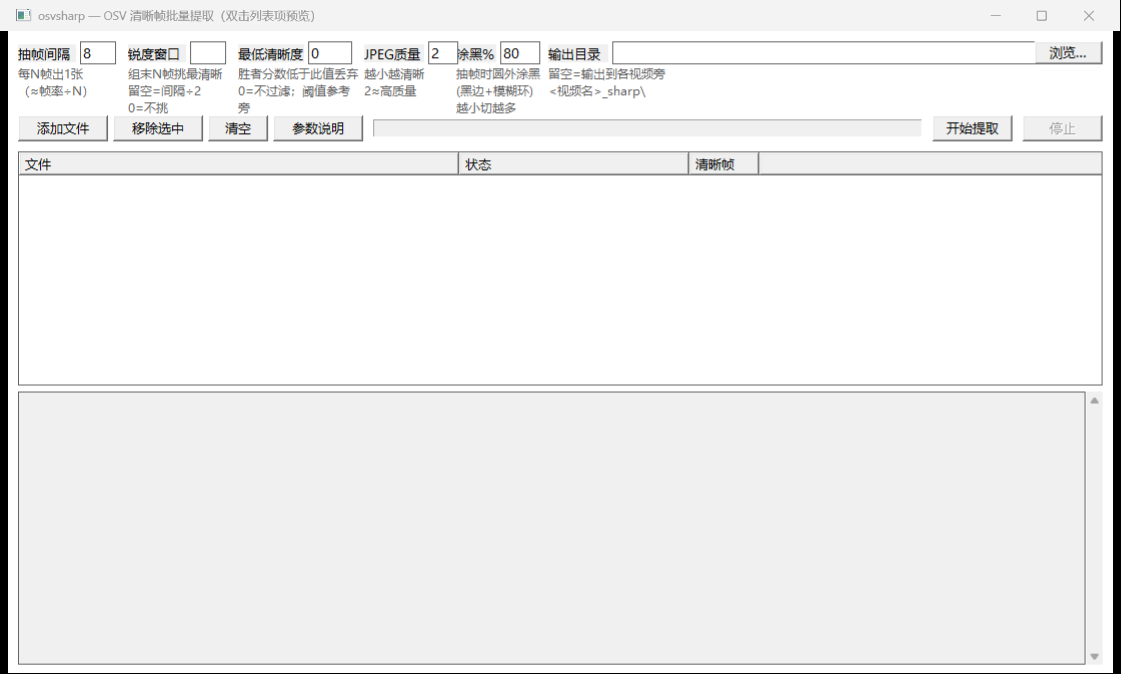
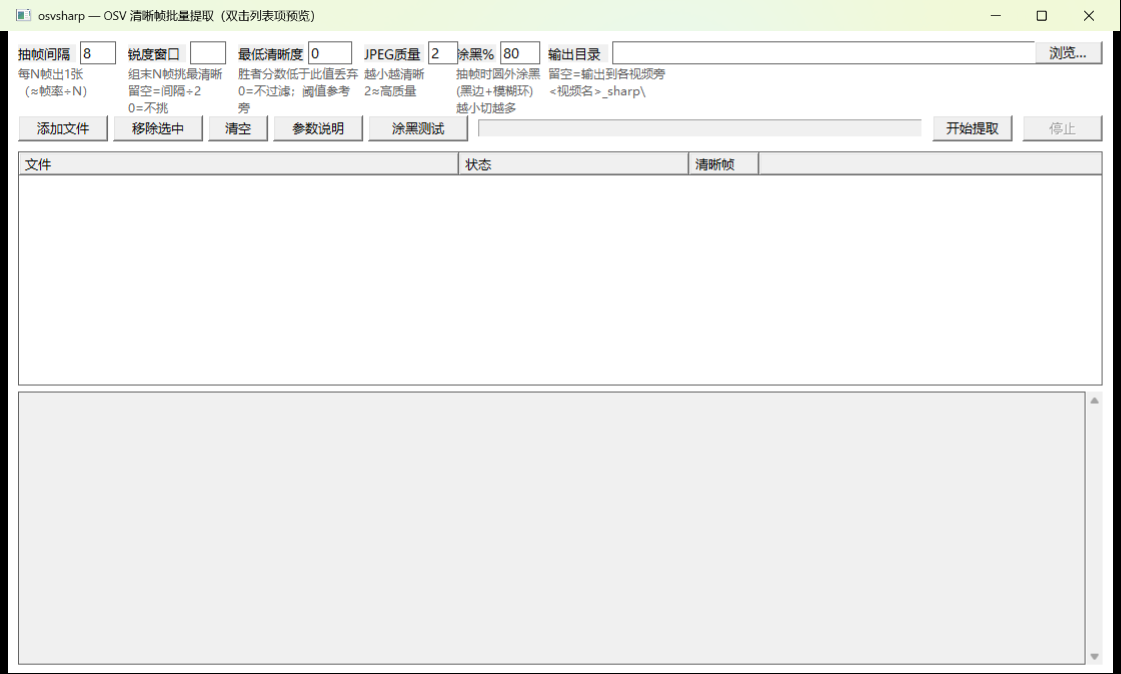
default mask radius 80 -> 95 (picked from the comparison sheet on real footage)

Changed region(s): [[0.7806, 0.0, 0.9991, 0.0623], [0.0312, 0.0, 0.281, 0.0312], [0.3434, 0.1558, 0.4371, 0.2181]]

diff --git a/osvsharp.c b/osvsharp.c
@@ -67,7 +67,7 @@
 #define DEF_SKIP    8      /* 25 fps source → ~3 written frames per second */
 #define DEF_JPEG_Q  2      /* ffmpeg mjpeg -q:v (lower = better)            */
 #define DEF_THUMB   512    /* spirula's thumbnail size                      */
-#define DEF_MASK    80     /* 涂黑保留半径百分数（0=关），抽帧编码时同步执行  */
+#define DEF_MASK    95     /* 涂黑保留半径百分数（0=关），抽帧编码时同步执行  */
 
 /* --------------------------------------------------------- 参数详解（速查）
  *
@@ -83,7 +83,7 @@
  * │ 最低清晰度  │ min  │ 0（不过滤） │ 分数低于此值的胜者不出图        │
  * │ JPEG质量    │ q    │ 2          │ mjpeg -q:v，越小越清晰          │
  * │ 评分缩略图  │thumb │ 512        │ 打分用的灰度图边长，影响分数刻度│
- * │ 涂黑半径%   │ mask │ 80（0=关） │ 抽帧时圆外涂黑，切黑边+模糊环   │
+ * │ 涂黑半径%   │ mask │ 95（0=关） │ 抽帧时圆外涂黑，切黑边+模糊环   │
  * └────────────┴──────┴────────────┴────────────────────────────────┘
  *
  * 【抽帧间隔 skip（-s，默认 8）】
@@ -1673,7 +1673,7 @@ static LRESULT CALLBACK wndproc(HWND wnd, UINT msg, WPARAM wp, LPARAM lp) {
         make_ctl(wnd, L"EDIT", L"", WS_BORDER | ES_AUTOHSCROLL, IDC_E_KEEP);
         make_ctl(wnd, L"EDIT", L"0", WS_BORDER | ES_AUTOHSCROLL, IDC_E_MIN);
         make_ctl(wnd, L"EDIT", L"2", WS_BORDER | ES_AUTOHSCROLL, IDC_E_Q);
-        make_ctl(wnd, L"EDIT", L"80", WS_BORDER | ES_AUTOHSCROLL, IDC_E_MASK);
+        make_ctl(wnd, L"EDIT", L"95", WS_BORDER | ES_AUTOHSCROLL, IDC_E_MASK);
         make_ctl(wnd, L"EDIT", L"", WS_BORDER | ES_AUTOHSCROLL, IDC_E_OUT);
         make_ctl(wnd, L"BUTTON", L"浏览…", 0, IDC_B_BROWSE);
         make_ctl(wnd, L"BUTTON", L"参数说明", 0, IDC_B_HELP);
@@ -1760,16 +1760,16 @@ static LRESULT CALLBACK wndproc(HWND wnd, UINT msg, WPARAM wp, LPARAM lp) {
                 L"与清晰段之间，通常先试 min~avg 之间的值，再按丢弃比例微调。\n"
                 L"注意：数值与评分缩略图尺寸(-b)和场景内容相关，改参数要重标。\n\n"
                 L"【JPEG质量】（默认 2）ffmpeg -q:v，越小越清晰，2 接近视觉无损。\n\n"
-                L"【涂黑%】（默认 80，0 = 不涂黑）\n"
+                L"【涂黑%】（默认 95，0 = 不涂黑）\n"
                 L"抽帧编码时同步把每张图中心圆外的像素涂黑：圆心=画面\n"
                 L"中心，保留半径 = 百分数×短边÷2。用于切掉鱼眼黑边和紧\n"
                 L"贴黑边的失焦模糊环；涂黑区不产生图像梯度，SfM 特征点\n"
                 L"天然落不进去，等价于给建模链喂 mask。\n"
                 L"数字越小切得越多，保留面积 ≈ 百分数的平方\n"
-                L"（80%→64%，88%→77%）。\n"
-                L"参考：DJI Osmo 360 样帧实测清晰边界约 93%，默认 80 已留\n"
-                L"足余量；想少切一点可往 84~88 方向调。涂黑并入编码滤镜，\n"
-                L"几乎不增加耗时，且无二次有损编码。\n\n"
+                L"（95%→90%，88%→77%）。\n"
+                L"参考：DJI Osmo 360 样帧实测清晰边界约 93%，默认 95 是\n"
+                L"用户在对比图上选定的值；拿不准就点「涂黑测试」看对比\n"
+                L"图再定。涂黑并入编码滤镜，几乎不增加耗时，无二次损失。\n\n"
                 L"【输出目录】留空 = 在各视频旁建 <视频名>_sharp\\。\n"
                 L"双目文件（OSV）分 cam0、cam1 子目录；单路视频直接放入。",
                 L"参数说明", MB_OK | MB_ICONINFORMATION);
@@ -1909,7 +1909,7 @@ static void usage(void) {
         "  -b, --thumb <n>      评分缩略图边长，只影响打分与分数刻度（默认 512）\n"
         "      -mask <n>        边缘涂黑：抽帧编码时把每张图中心圆外涂黑，\n"
         "                       保留半径=n%%×短边÷2，越小切得越多\n"
-        "                       （默认 80；0 = 不涂黑）\n"
+        "                       （默认 95；0 = 不涂黑）\n"
         "  -o, --out <dir>      output directory (default: <video>_sharp)\n"
         "      --ffmpeg <path>  ffmpeg executable\n"
         "      --hwaccel <name> force cuda/vulkan/d3d11va/none\n"

diff --git a/README.md b/README.md
@@ -8,7 +8,7 @@
 
 - **输入 OSV 直出**：无需先用 DJI 官方工具拆解，直接拖入 `.OSV` 文件
 - **清晰帧筛选**：对每帧计算 512×512 亮度缩略图的拉普拉斯方差（与 spirula-studio 的 GPU 实现同一算法），滑窗内只保留最锐一帧——运动模糊、抖动、对焦爬升期的帧自动淘汰
-- **边缘涂黑**：抽帧编码时同步把每帧中心圆外的像素涂黑（半径百分数可设，默认 80%），切掉鱼眼黑边与紧贴黑边的失焦模糊环——涂黑并入编码滤镜（单次编码、无二次损失、几乎不耗时），涂黑区不产生图像梯度，SfM 特征点天然落不进去，等价于给三维重建喂 mask
+- **边缘涂黑**：抽帧编码时同步把每帧中心圆外的像素涂黑（半径百分数可设，默认 95%），切掉鱼眼黑边与紧贴黑边的失焦模糊环——涂黑并入编码滤镜（单次编码、无二次损失、几乎不耗时），涂黑区不产生图像梯度，SfM 特征点天然落不进去，等价于给三维重建喂 mask
 - **涂黑测试**：一键提取每路第一帧，生成 85~99% 的涂黑对比大图（双目两路各一张），点哪格就把涂黑% 设为哪档，定值后再批量
 - **双目帧号配对**：两路鱼眼分别导出到 `cam0/`、`cam1/`，文件名即源视频帧号，同号即同一时刻，方便全景拼接 / 三维重建配对
 - **显卡硬解**：自动探测 NVIDIA CUDA → Vulkan → D3D11VA，全部失败退回 CPU 软解（实测 8K 双目硬解比软解快约 5 倍）
@@ -34,7 +34,7 @@
 | 锐度窗口 | 每个输出位置往前多少帧里选最清晰的一帧；留空 = 自动（约间隔一半） | 自动 |
 | 最低清晰度 | 得分低于该值的帧即使窗口内最优也不输出，用于剔除开机抖动段；先跑一遍看 CSV 分布再定 | 0（关闭） |
 | JPEG 质量 | 同 ffmpeg `-q:v`，越小越清晰文件越大 | 2 |
-| 涂黑半径% | 抽帧编码时同步把每帧中心圆外涂黑（单次编码、无二次损失、几乎不耗时）：保留半径 = 百分数 × 短边 ÷ 2，切掉黑边 + 失焦模糊环。百分数越小切得越多（保留面积 ≈ 百分数的平方：80%→64%、88%→77%）。参考：Osmo 360 样帧实测清晰边界约 93%，默认 80 已留足余量，想少切一点可往 84~88 调 | 80 |
+| 涂黑半径% | 抽帧编码时同步把每帧中心圆外涂黑（单次编码、无二次损失、几乎不耗时）：保留半径 = 百分数 × 短边 ÷ 2，切掉黑边 + 失焦模糊环。百分数越小切得越多（保留面积 ≈ 百分数的平方：95%→90%、88%→77%）。参考：Osmo 360 样帧实测清晰边界约 93%，默认 95 为实测选定值；拿不准点「涂黑测试」看对比图再定 | 95 |
 | 输出目录 | 留空 = 各视频旁边 | 空 |
 
 ### 命令行
